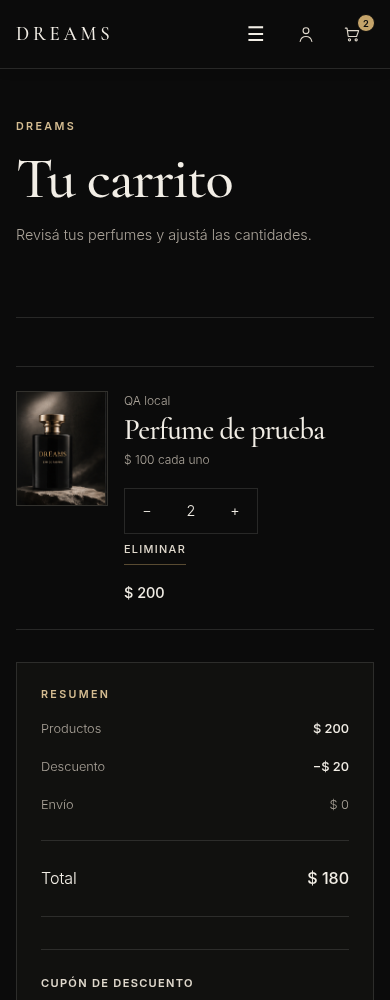
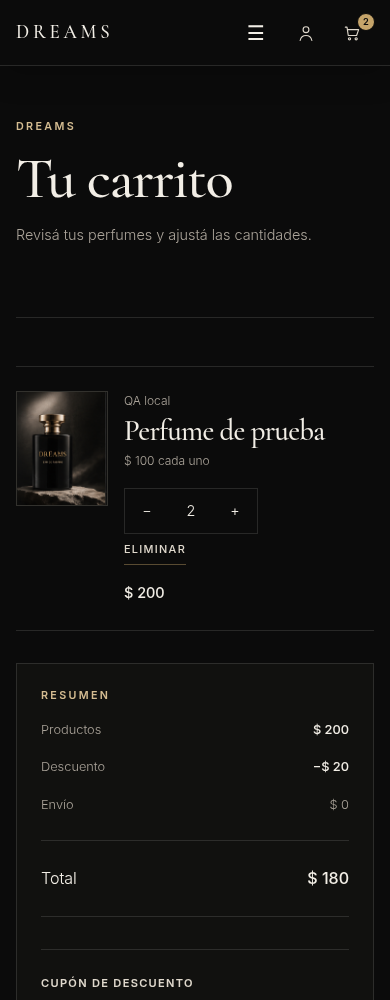
fix: rechazar cambios de importes antes de confirmar el checkout académico

diff --git a/server/presentation-checkout.js b/server/presentation-checkout.js
@@ -3,6 +3,7 @@ const { auth_cookie } = require('./auth-cookies');
 const academic_summary = (subtotal, quote = {}) => ({ subtotal, discount: quote.discount || 0, coupon: quote.coupon || null, shipping: 0, shipping_label: 'Envío', total: quote.total ?? subtotal });
 const valid_intent = value => /^[a-f0-9]{8}-[a-f0-9]{4}-4[a-f0-9]{3}-[89ab][a-f0-9]{3}-[a-f0-9]{12}$/i.test(value || '');
 const signing_reference = ticket => createHmac('sha256', ticket.intent_id).update(JSON.stringify([ticket.items, ticket.subtotal, ticket.discount, ticket.total, ticket.coupon])).digest('hex').slice(0, 8).toUpperCase();
+const item_amounts = items => JSON.stringify(items.map(({id, quantity, price}) => [id, quantity, price]));
 const COOKIE = 'dreams_presentation';
 
 const owner_for = request => {
@@ -47,7 +48,7 @@ function install_presentation({ ready, quote_cart, database, product_brand_colum
         if (!ticket) return response.status(400).json({ error: 'La referencia venció o no es válida. Volvé a intentarlo.' });
         // Revalidar sin consumir usos: ninguna operación de pago ni pedido comercial.
         const current = await quote_cart(database, ticket.items.map(({id, quantity}) => ({id, quantity})), ticket.coupon?.code || '', product_brand_column, request.user?.id);
-        if (current.error || current.coupon_error || current.warnings.length || current.subtotal !== ticket.subtotal || current.total !== ticket.total || (current.discount || 0) !== (ticket.discount || 0)) return response.status(409).json({ error: 'Los importes o el cupón cambiaron. Volvé al carrito.' });
+        if (current.error || current.coupon_error || current.warnings.length || current.subtotal !== ticket.subtotal || current.total !== ticket.total || (current.discount || 0) !== (ticket.discount || 0) || item_amounts(current.items) !== item_amounts(ticket.items) || (current.coupon?.id || null) !== (ticket.coupon?.id || null)) return response.status(409).json({ error: 'Los importes o el cupón cambiaron. Volvé al carrito.' });
         // La referencia identifica también los importes y el cupón, conservando reintentos.
         const receipt = { ...ticket, kind: 'receipt', status: 'completed', reference: `DREAMS-${ticket.intent_id.replace(/-/g, '').toUpperCase() + (ticket.coupon ? '-' + signing_reference(ticket) : '')}` };
         response.json({ receipt: sign(receipt), status: receipt.status, reference: receipt.reference });

diff --git a/public/js/presentation.js b/public/js/presentation.js
@@ -1,5 +1,7 @@
 // Academic-only signed snapshots. Card fields are never read, sent or stored.
 const PRESENTATION_KEY = 'dreams_presentation_checkout';
+let presentation_expected_totals = null;
+const presentation_totals = value => JSON.stringify([value.subtotal, value.discount || 0, value.total, value.coupon?.code || '']);
 const PRESENTATION_RECEIPT = 'dreams_presentation_receipt';
 const presentation_snapshot = items => JSON.stringify([sessionStorage.getItem('dreams_coupon') || '', items.map(item => [Number(item.id), Number(item.quantity)]).sort((a, b) => a[0] - b[0])]);
 async function presentation_request(path, body) {
@@ -40,6 +42,7 @@ async function presentation_quote(button, status, initial_snapshot) {
             const response = await fetch('/api/cart/quote', { method: 'POST', headers: { 'Content-Type': 'application/json' }, body: JSON.stringify({ items: checkout_items_payload(), coupon_code: sessionStorage.getItem('dreams_coupon') || '' }) });
             const quote = await response.json();
             if (!response.ok || !quote.items?.length || quote.warnings?.length || quote.shipping !== 0 || quote.coupon_error || quote.total !== Math.round((quote.subtotal - (quote.discount || 0)) * 100) / 100 || !Number.isFinite(quote.subtotal) || quote.subtotal <= 0 || presentation_snapshot(get_cart()) !== initial_snapshot) throw new Error(quote.error || 'Revisá los productos del carrito antes de continuar.');
+            presentation_expected_totals = presentation_totals(quote);
             render_checkout(quote.items, quote.subtotal, quote.discount || 0, quote.total);
             const shipping = document.createElement('div');
             shipping.id = 'checkout-shipping'; shipping.className = 'summary-line';
@@ -65,6 +68,7 @@ function presentation_intent(cart) {
 async function presentation_complete(saved) {
                 if (!saved.ticket) {
                     const data = await presentation_request('session', { items: checkout_items_payload(), intent_id: saved.intent_id, coupon_code: sessionStorage.getItem('dreams_coupon') || '' });
+                    if (presentation_totals(data) !== presentation_expected_totals) throw new Error('Los importes cambiaron. Volvé al carrito para revisarlos.');
                     saved.ticket = data.ticket;
                     sessionStorage.setItem(PRESENTATION_KEY, JSON.stringify(saved));
                 }

diff --git a/test/academic-coupon.test.js b/test/academic-coupon.test.js
@@ -54,3 +54,13 @@ test('límite por cuenta permite otra cuenta con usos disponibles sin consumirlo
     const q = await resolve_coupon(fixture({per_user_limit: 1}, [{user_id:'A'}]), 'QA_ONLY', 20.02, 'B');
     assert.equal(q.discount, 2.5); assert.equal(q.coupon_error, null);
 });
+
+test('validación local distingue mes, longitud y ceros sin verificación bancaria', () => {
+    const nodes = Object.fromEntries(['number','expiry','cvv'].map(id => ['demo-card-'+id, {value:''}]));
+    const c = vm.createContext({document:{addEventListener(){},getElementById:id=>nodes[id]}});
+    vm.runInContext(readFileSync(require.resolve('../public/js/academic-inputs.js'),'utf8'),c);
+    for (const [number, expiry, cvv, expected] of [['0000 0000 0000 0000','12/30','001',true],['0000 0000 0000 0000','00/30','001',false],['0000 0000 0000 0000','13/30','001',false],['123','12/30','001',false],['0000 0000 0000 0000','1/30','001',false],['0000 0000 0000 0000','01/30','01',false]]) {
+        nodes['demo-card-number'].value=number;nodes['demo-card-expiry'].value=expiry;nodes['demo-card-cvv'].value=cvv;
+        assert.equal(c.academic_input_valid(),expected);
+    }
+});

diff --git a/test/academic-client.test.js b/test/academic-client.test.js
@@ -31,7 +31,7 @@ function harness(fetch_session) {
             const body = JSON.parse(options.body); calls.push({ url, body });
             let data;
             if (url === '/api/cart/quote') data = { items, subtotal: 240, total: 240, shipping: 0, shipping_label: 'Envío gratis' };
-            else if (url.endsWith('/session')) data = await fetch_session(body);
+            else if (url.endsWith('/session')) data = { ...(await fetch_session(body)), subtotal: 240, discount: 0, total: 240 };
             else data = { receipt: 'signed-fixture' };
             return { ok: true, json: async () => data };
         }

diff --git a/CHANGELOG.md b/CHANGELOG.md
@@ -4,7 +4,7 @@ Rama codex/cart-coupon-academic-inputs desde main5236ef6. Implementado cupón ú
 
 Titular vacío/placeholder, máscaras con cursor y beforeinput, número16dígitos, MM/AA mes01–12 y CVV3dígitos, todos locales. Nombre admite caracteres Unicode y puntuación sin máscara. Ningún campo financiero en peticiones/storage/ticket/recibo. Envío etiqueta única y costo0. Prevención doble envío conservada.
 
-486testsPASS, sintaxis103archivos; inventario40líneas sin violaciones, buildsPages/oficialPASS. Chromium local390/1440 cupón→checkout→confirmación180/180/180 y envío0, datos ficticios ausentes de red/storage. Capturas cart/form en esta carpeta son LOCALES. Falta publicación, smoke oficial y evidencia final.
+487testsPASS, sintaxis103archivos; inventario40líneas sin violaciones, buildsPages/oficialPASS. Chromium local390/1440 cupón→checkout→confirmación180/180/180 y envío0, datos ficticios ausentes de red/storage. Capturas cart/form en esta carpeta son LOCALES. Falta publicación, smoke oficial y evidencia final.
 
 Rollback conservado: Pagesb169918f y backend29b843a0; se hereda únicamente SUPABASE_SECRET_KEY, sin nueva configuración Auth/Admin/DB. No otras webs/previews ni cupones comerciales modificados.
 

diff --git a/CURRENT_STATE.md b/CURRENT_STATE.md
@@ -4,7 +4,7 @@ Rama codex/cart-coupon-academic-inputs desde main5236ef6. Implementado cupón ú
 
 Titular vacío/placeholder, máscaras con cursor y beforeinput, número16dígitos, MM/AA mes01–12 y CVV3dígitos, todos locales. Nombre admite caracteres Unicode y puntuación sin máscara. Ningún campo financiero en peticiones/storage/ticket/recibo. Envío etiqueta única y costo0. Prevención doble envío conservada.
 
-486testsPASS, sintaxis103archivos; inventario40líneas sin violaciones, buildsPages/oficialPASS. Chromium local390/1440 cupón→checkout→confirmación180/180/180 y envío0, datos ficticios ausentes de red/storage. Capturas cart/form en esta carpeta son LOCALES. Falta publicación, smoke oficial y evidencia final.
+487testsPASS, sintaxis103archivos; inventario40líneas sin violaciones, buildsPages/oficialPASS. Chromium local390/1440 cupón→checkout→confirmación180/180/180 y envío0, datos ficticios ausentes de red/storage. Capturas cart/form en esta carpeta son LOCALES. Falta publicación, smoke oficial y evidencia final.
 
 Rollback conservado: Pagesb169918f y backend29b843a0; se hereda únicamente SUPABASE_SECRET_KEY, sin nueva configuración Auth/Admin/DB. No otras webs/previews ni cupones comerciales modificados.
 

diff --git a/PLAN.md b/PLAN.md
@@ -4,7 +4,7 @@ Rama codex/cart-coupon-academic-inputs desde main5236ef6. Implementado cupón ú
 
 Titular vacío/placeholder, máscaras con cursor y beforeinput, número16dígitos, MM/AA mes01–12 y CVV3dígitos, todos locales. Nombre admite caracteres Unicode y puntuación sin máscara. Ningún campo financiero en peticiones/storage/ticket/recibo. Envío etiqueta única y costo0. Prevención doble envío conservada.
 
-486testsPASS, sintaxis103archivos; inventario40líneas sin violaciones, buildsPages/oficialPASS. Chromium local390/1440 cupón→checkout→confirmación180/180/180 y envío0, datos ficticios ausentes de red/storage. Capturas cart/form en esta carpeta son LOCALES. Falta publicación, smoke oficial y evidencia final.
+487testsPASS, sintaxis103archivos; inventario40líneas sin violaciones, buildsPages/oficialPASS. Chromium local390/1440 cupón→checkout→confirmación180/180/180 y envío0, datos ficticios ausentes de red/storage. Capturas cart/form en esta carpeta son LOCALES. Falta publicación, smoke oficial y evidencia final.
 
 Rollback conservado: Pagesb169918f y backend29b843a0; se hereda únicamente SUPABASE_SECRET_KEY, sin nueva configuración Auth/Admin/DB. No otras webs/previews ni cupones comerciales modificados.
 

diff --git a/docs/evidence/coupon-academic-20261103/README.md b/docs/evidence/coupon-academic-20261103/README.md
@@ -4,6 +4,6 @@ Rama codex/cart-coupon-academic-inputs desde main5236ef6. Implementado cupón ú
 
 Titular vacío/placeholder, máscaras con cursor y beforeinput, número16dígitos, MM/AA mes01–12 y CVV3dígitos, todos locales. Nombre admite caracteres Unicode y puntuación sin máscara. Ningún campo financiero en peticiones/storage/ticket/recibo. Envío etiqueta única y costo0. Prevención doble envío conservada.
 
-486testsPASS, sintaxis103archivos; inventario40líneas sin violaciones, buildsPages/oficialPASS. Chromium local390/1440 cupón→checkout→confirmación180/180/180 y envío0, datos ficticios ausentes de red/storage. Capturas cart/form en esta carpeta son LOCALES. Falta publicación, smoke oficial y evidencia final.
+487testsPASS, sintaxis103archivos; inventario40líneas sin violaciones, buildsPages/oficialPASS. Chromium local390/1440 cupón→checkout→confirmación180/180/180 y envío0, datos ficticios ausentes de red/storage. Capturas cart/form en esta carpeta son LOCALES. Falta publicación, smoke oficial y evidencia final.
 
 Rollback conservado: Pagesb169918f y backend29b843a0; se hereda únicamente SUPABASE_SECRET_KEY, sin nueva configuración Auth/Admin/DB. No otras webs/previews ni cupones comerciales modificados.
